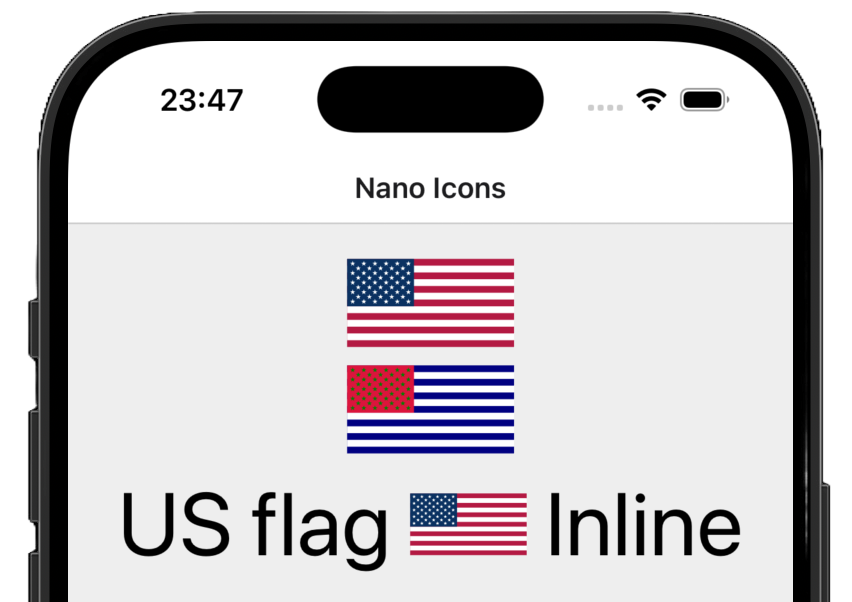
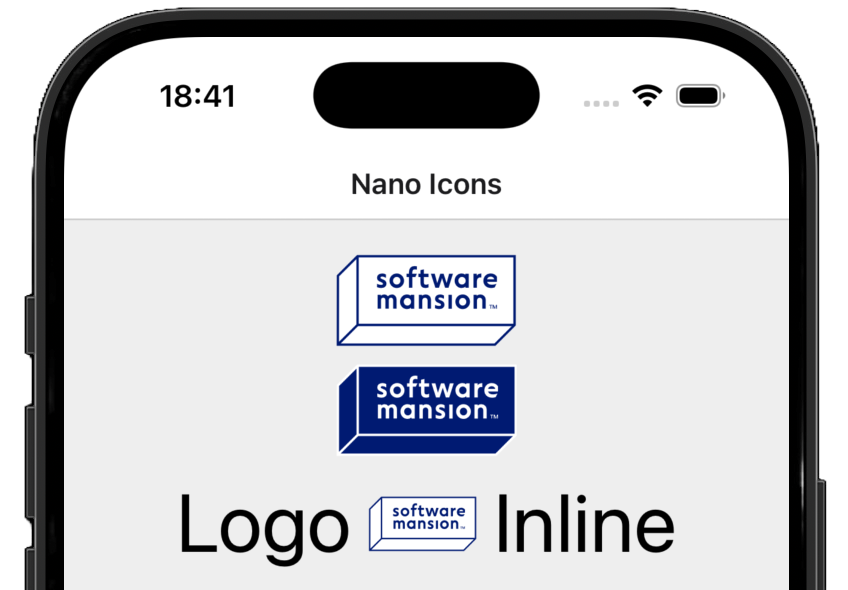
chore: update docs

diff --git a/README.md b/README.md
@@ -6,30 +6,26 @@
 <br>
 </div>
 
-# High-performance, build-time icon font generation and rendering for React Native & Expo
+`react-native-nano-icons`
 
-`react-native-nano-icons` **solves two problems:**
+# High-performance icon rendering for React Native & Expo.
 
-1. **CLI tooling gap** — <u>Reliable</u> conversion of SVG files (including complex multicolor ones) into font icons currently requires web-based tools, often paid. This library automates the entire SVG-to-font pipeline at build time, directly in your project — **no manual exports, no leaving your IDE**.
+Nano Icons is the fastest way to render icons in React Native. Point it at a folder of SVGs and get **blazing-fast, native icon rendering with near-zero overhead**. It works great for any app that uses icons, and is at its best when the same small symbols appear many times on screen — row icons in a list, tab bars, inline badges. [See benchmarks →](#-performance)
 
-2. **Rendering performance** — When your app displays **many** small icons (lists, tab bars, buttons, inline text), each SVG rendered via [`react-native-svg`](https://github.com/software-mansion/react-native-svg) inflates a full React component tree per icon, with native views, reconciliation, and [Yoga](http://github.com/facebook/yoga) layout on every mount ([read more](https://swmansion.com/blog/you-might-not-need-react-native-svg-b5c65646d01f)). Nano Icons skip all of that — they are rendered directly via [CoreText](https://developer.apple.com/documentation/coretext/) (iOS) and [Canvas](<https://developer.android.com/reference/android/graphics/Canvas#drawText(java.lang.String,%20float,%20float,%20android.graphics.Paint)>) (Android), resulting in **blazing-fast performance** 🔬⚡
+## Why not just use…
+`react-native-svg` — It works, but it wasn’t designed for icons. Every SVG component spins up a full React subtree that gets parsed, reconciled, and laid out on each mount. One icon is fine. Fifty in a scrollable list and your UI starts paying for it ([read more](https://swmansion.com/blog/you-might-not-need-react-native-svg-b5c65646d01f)).
 
-**Multicolor SVGs are supported out of the box**: each fill color in your SVG becomes a separate glyph layer, and you can override individual layer colors at runtime via `props`. Since all of that is actually simple text, you can use your beautiful multicolor SVG designs **inline within a regular** `<Text>` **component** without fighting the layout engine.
+`expo-image` and similar — A better choice for complex vector graphics, but each image goes through its own rasterization pipeline. That’s not optimized for drawing many copies of the same small symbol, and the per-image overhead makes it better suited for richer graphics than tiny repeated icons.
+
+`react-native-vector-icons` — Already font-based, so rendering is fast. Great if you’re using a bundled icon pack like MaterialIcons or FontAwesome. But if you need your own custom icons, you’re back to managing font files manually with external tools — exactly the workflow Nano Icons eliminates.
+
+## How Nano Icons works
+At build time, your SVGs are automatically converted into an optimized icon font. At runtime, each icon renders as a single native text glyph stack — bypassing React’s component tree entirely. The result is dramatically less work per icon, especially in screens with many repeated symbols: lists, tab bars, buttons, inline badges.
+Drop your SVGs in a folder. Use them as a fully typed component by name. 
+That’s it 🔬⚡
 
 ![Nano Icons Platforms Showcase (light mode)](packages/react-native-nano-icons/docs/img/nano-icons-platforms-light.png#gh-light-mode-only)
 ![Nano Icons Platforms Showcase (dark mode)](packages/react-native-nano-icons/docs/img/nano-icons-platforms-inverted.png#gh-dark-mode-only)
-
-### When to use this
-
-- You have many small and static SVG icons repeated across your app (lists, tabs, buttons, menus, etc.) and **you want to make your app as fast as possible**
-- You want static multicolor icons (country flags, brand logos) with per-layer color control and **inline support**
-- You already use font-based icons converted from SVGs using third-party browser apps and are looking for **an automated workflow integrated directly with your project**
-
-### When to use something else
-
-- You want full control over **every** element and attribute in your SVG, i.e. to animate a `path` → [`react-native-svg`](https://github.com/software-mansion/react-native-svg)
-- SVGs with `<mask>` / `<filter>` that do not require **any** per-element attribute control → [`expo-image`](https://docs.expo.dev/versions/latest/sdk/image/)
-- Ready-made icon sets (FontAwesome, Ionicons, etc.) → [`@expo/vector-icons`](https://docs.expo.dev/versions/latest/sdk/vector-icons/)
 
 ---
 
@@ -40,7 +36,7 @@
 - [🎨 Multicolor Icons](#-multicolor-icons)
 - [📊 Performance](#-performance)
 - [⚠ Known Limitations](#%EF%B8%8F-known-limitations)
-- [🔧 How It Works](#-how-it-works)
+- [🔧 Font Generation Pipeline](#-how-it-works)
 - [🤝 Contributing](#-contributing)
 
 ---
@@ -179,7 +175,7 @@ export default function App() {
 
       {/* Icons work inline with text */}
       <Text>
-        Tap <Icon name="heart" size={14} color="tomato" /> to save
+        Tap <Icon name="heart" size={12} color="tomato" /> to save
       </Text>
     </View>
   );
@@ -215,18 +211,18 @@ This makes the library well-suited for multicolor icons like country flags, bran
 
 ```TypeScript
 // Renders with the original SVG colors
-<Icon name="flag-us" size={32} />
+<Icon name="SWM_logo" size={52} />
 
 // Override individual layer colors
-<Icon name="flag-us" size={32} color={["navy", "white", "crimson"]} />
+<Icon name="SWM_logo" size={52} color={["#FFFFFF", "#001A72"]} />
 
 <Text>
-  US flag <Icon name="usFlag" size={32} /> Inline
+  Logo <Icon name="SWM_logo" size={32} /> Inline
 </Text>
 ```
 
 <div align="center">
-  <img alt="Multicolor icon example showing per-layer color overrides" src="packages/react-native-nano-icons/docs/img/nano-icon-color-showcase.png" height="200">
+  <img alt="Multicolor icon example showing per-layer color overrides" src="packages/react-native-nano-icons/docs/img/nano-icon-color-showcase.png" height="250">
 </div>
 <br>
 
@@ -237,6 +233,8 @@ This makes the library well-suited for multicolor icons like country flags, bran
 - **Omitted** — uses the original SVG colors stored in the glyphmap.
 
 An SVG with many distinct colors (e.g., a detailed vector image with 50 colors) produces at least 50 glyph layers. Each layer is a lightweight text glyph, so this is fine for typical icons (3–10 colors). For highly complex illustrations with dozens of colors, consider using `expo-image` instead.
+
+Since all of that is actually simple text, you can use your beautiful multicolor SVG designs **inline within a regular** `<Text>` **component** without fighting the layout engine.
 
 > [!IMPORTANT]
 > You should always verify your icons visually.
@@ -278,7 +276,7 @@ The chart shows time in milliseconds across three phases: **JS Thread** (JavaScr
 
 ---
 
-## 🔧 How It Works
+## 🔧 Font Generation Pipeline
 
 ![Nano Icons Pipeline (light mode)](packages/react-native-nano-icons/docs/img/nano-icons-graph-light.png#gh-light-mode-only)
 ![Nano Icons Pipeline (dark mode)](packages/react-native-nano-icons/docs/img/nano-icons-graph-inverted.png#gh-dark-mode-only)
@@ -291,7 +289,7 @@ At build time, the pipeline processes your SVG directory through four stages:
 4. **Font compilation** — Layers are compiled into a standard `.ttf` font file, with each layer mapped to a private-use Unicode codepoint.
 5. **Glyphmap generation** — A compact `.glyphmap.json` is created, mapping icon names to their codepoints, default colors, and metrics.
 
-At runtime, the native component stacks glyph layers at the same position — one `drawGlyphs` call per layer via CoreText (iOS) or `drawText` via Canvas (Android). On web and Expo Go, a pure `react-native` fallback uses stacked `<Text>` elements.
+At runtime, the native component stacks glyph layers at the same position — one `drawGlyphs` call per layer via [CoreText](https://developer.apple.com/documentation/coretext/) (iOS) or `drawText` via [Canvas](<https://developer.android.com/reference/android/graphics/Canvas#drawText(java.lang.String,%20float,%20float,%20android.graphics.Paint)>) (Android). On web and Expo Go, a pure `react-native` fallback uses stacked `<Text>` elements.
 
 ---
 
